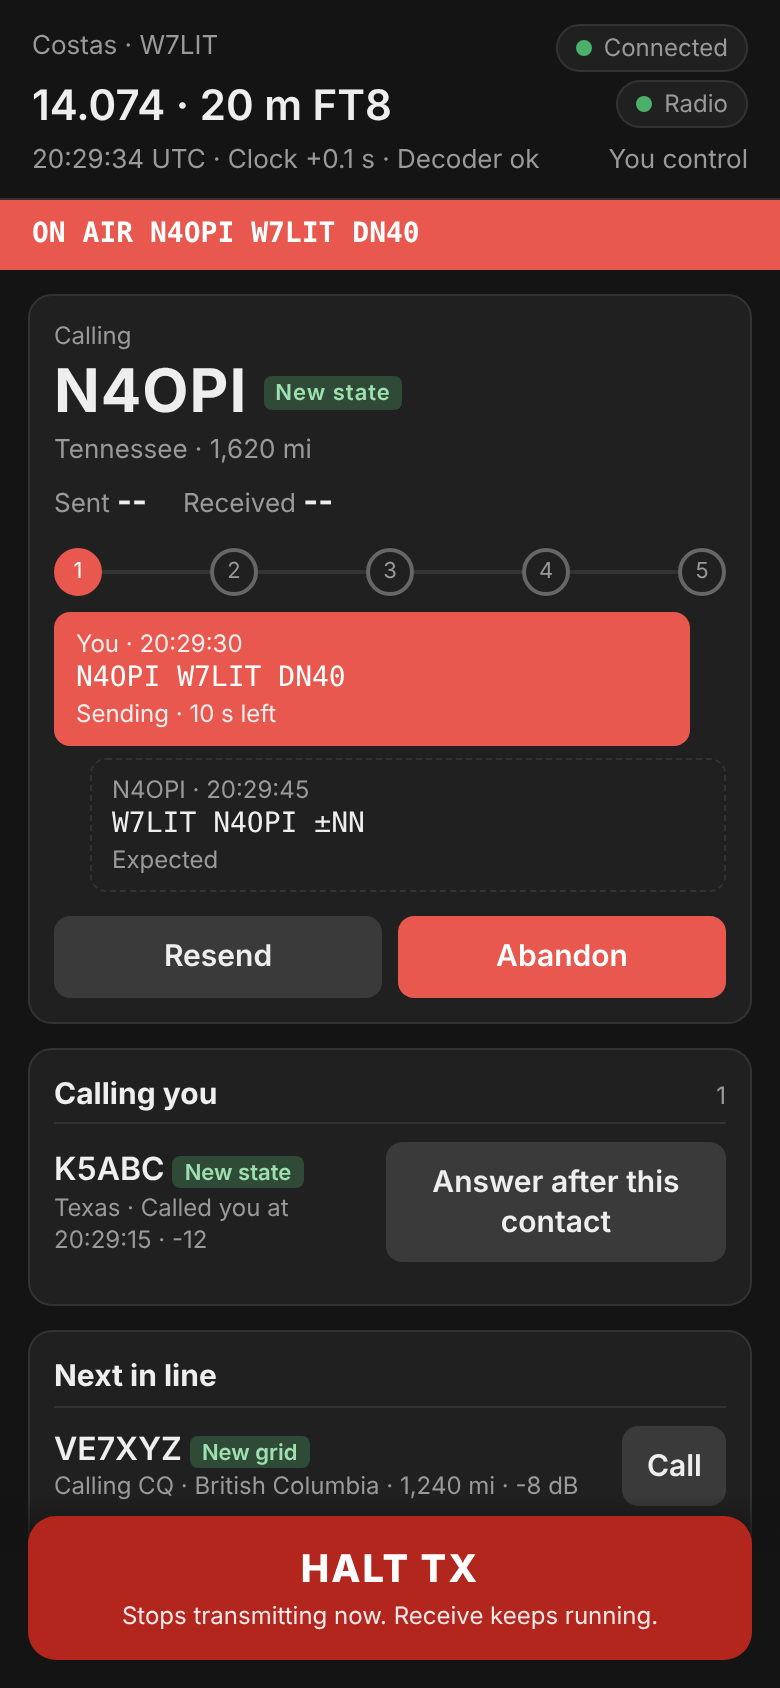
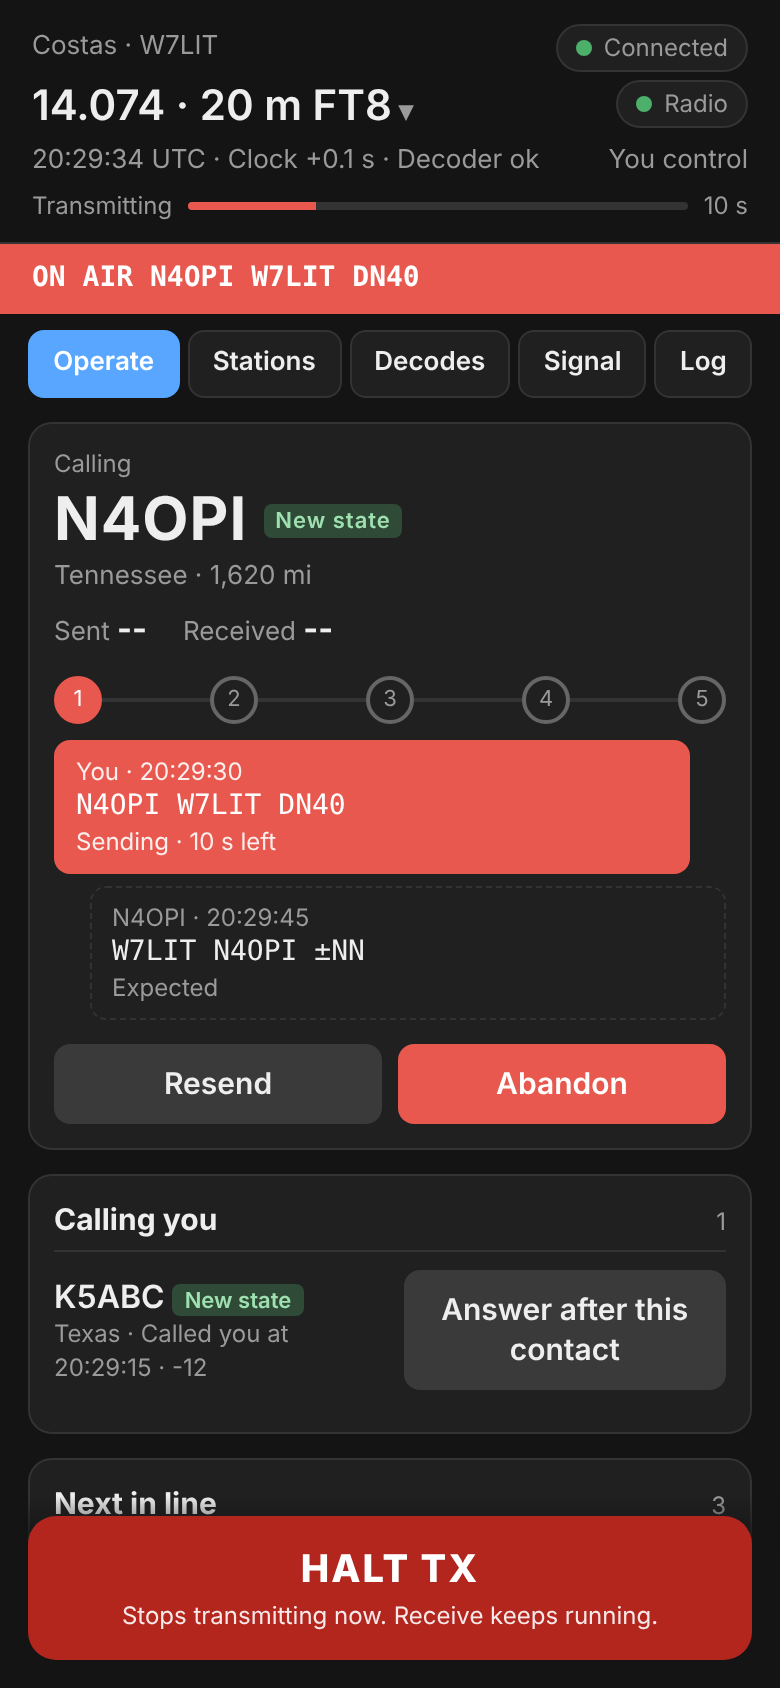
Document the fuller phone page
The manual's phone page lists what each tab shows, how station details and
band changes work, and which actions take control. The UI spec and
architecture notes describe the new state and commands.

Claude-Session: https://claude.ai/code/session_01Xyf7gwF8RdtxK5kX49V5Lw

diff --git a/manual/phone.md b/manual/phone.md
@@ -24,14 +24,42 @@ phone, open **Settings › Mobile connection** again and press **Pair a phone**.
 
 ## What the phone can do
 
-- See the band and frequency, the radio, the clock and the decoder, and what is on the air.
-- Follow the contact on the same five-step strip as the desk. Tap one of your upcoming steps to send it next.
-- **Resend**, **Log now** (once both reports are exchanged) and **Abandon**.
-- **Call CQ** or **Stop CQ**.
-- Answer stations in **Calling you**, and call stations in **Next in line**.
-- **HALT TX** is always at the bottom of the screen.
+The top of the page shows the band and frequency, the radio, the clock and the decoder, who is in control, and a
+countdown bar for the current slot (red while you transmit). Below it, five tabs cover what the desk's Operate view
+shows. **HALT TX** is always at the bottom of the screen.
 
-Settings, the log, band changes and the waterfall stay on the desk.
+![The Stations tab](images/phone-stations.png){ width="320" }
+
+| Tab | What it shows |
+|---|---|
+| **Operate** | The contact on the same five-step strip as the desk (tap one of your upcoming steps to send it next), with **Resend**, **Log now** and **Abandon**; **Call CQ** or **Stop CQ**; **Calling you**; and **Next in line** with the same columns as the desk: what each station is doing, where it is, its signal, whether it hears you, your chance, and when you last worked it |
+| **Stations** | The band summary (stations heard, countries, calling CQ, you need), **Repeats** (stations already in your log on this band and mode) and **Watching** (needed, but not callable right now, and why) |
+| **Decodes** | Band activity, newest first. Messages to you are highlighted, CQs are blue and your own transmissions are grey |
+| **Signal** | Who hears you, from PSK Reporter: how many stations and countries in the last 15 minutes, the farthest and best reports, and the latest reports |
+| **Log** | The contacts you made tonight |
+
+Under the top bar the page also shows the radio's SWR or ALC warning after a transmission that read outside limits,
+and a line when QRZ, PSK Reporter or the audio device is not working.
+
+### Station details
+
+Tap a call anywhere (a row in a list, a line in Decodes, a report) to open what the desk's details flyout shows:
+name and location from QRZ, grid, bearing, local time, QSL methods, zones, what it is doing now, a pile-up summary
+and your past contacts with it. When the station can be called, the sheet has a **Call** (or **Answer**) button.
+
+![Station details on the phone](images/phone-details.png){ width="320" }
+
+### Band, mode and Tx offset
+
+Tap the frequency at the top to change band or mode, or the transmit offset. These work like the band menu and the
+offset box on the desk: band changes wait until the current transmission ends, changing band ends a contact or CQ
+(the phone asks first), and a fixed offset must be between 200 and 2900 Hz. Changes are saved, so the desk shows
+them too.
+
+![Band and offset on the phone](images/phone-band.png){ width="320" }
+
+Settings, editing the log and the waterfall stay on the desk. Opening a station's details or switching tabs does not
+take control; calling, answering, band and offset changes do.
 
 ## Who is in control
 

diff --git a/docs/02-ui-spec.md b/docs/02-ui-spec.md
@@ -238,6 +238,8 @@ Sections: Station profiles · Radio · Audio · Transmit (power, watchdog minute
 
 A single page served by the app to a paired phone on the home network (owner decision 2026-10-12). Top: my call, frequency, band and mode, link state, radio dot, UTC, clock and decoder, and who has control ("You control", "Desk controls", "Another phone controls"). An ON AIR line with the message while transmitting. A yellow banner for the fault line (for example "Transmit stopped at 20:31:15: lost touch with the phone."). The contact card with the same wording and five-step strip as the desk, the messages around the current step (tap an upcoming one of mine to jump), and Resend, Log now and Abandon; when idle, Call CQ or Stop CQ. Calling you and Next in line (up to 8) with their buttons. HALT TX pinned to the bottom ("NOT TRANSMITTING" in grey when nothing is going out). The desk's bottom bar shows "Phone in control" or "Phone connected".
 
+Richer page (owner request 2026-10-12, "more feature rich"): under the top bar, a slot countdown bar (red while transmitting), the Tx meter warning after a transmission outside limits, and one line when QRZ, PSK Reporter or audio is not working. Five tabs: Operate (contact card, Calling you, Next in line with the desk's columns: doing now, where, signal, hears you, chance, last heard, last worked), Stations (band summary figures, Repeats up to 8, Watching up to 8 with the reason), Decodes (band activity, newest first, up to 60 lines, coloured as on the desk), Signal (the desk's "Your signal" panel: headline, farthest, best, nearby stations, latest reports), Log (tonight's contacts). Tapping a call opens a station sheet with the desk's details flyout content and a Call or Answer button when the station can be called. Tapping the frequency opens a band sheet: mode, band (not while transmitting; confirms before ending a contact or CQ) and Tx offset (Automatic, or 200 to 2900 Hz), with the desk's wording and saved to settings. Opening details does not take control; band and offset changes do. The tab in use is remembered on the phone.
+
 
 Audio dropouts, decode time per slot, median DT of decodes, clock offset, CAT round-trip time, ALC and SWR of the last transmission, `jt9` and `rigctld` process state and restarts, QRZ and PSK Reporter connection state and last error, upload queue length. A button "Save diagnostics bundle" writes a zip of logs and settings (with secrets removed).
 

diff --git a/docs/03-architecture.md b/docs/03-architecture.md
@@ -120,6 +120,8 @@ Required from Milestone 0 so that everything can be built and tested without a r
 
 `App/Remote`: `RemoteControlService` runs Kestrel (ASP.NET Core) inside the app while Settings has it on. `GET /` serves one embedded HTML page, `POST /api/pair` swaps the one-time code for a device token, and `/ws` carries `RemoteState` (built from `SessionSnapshot` by `RemoteStateBuilder`, reusing the Operate view models' wording) down and commands up. `RemoteControl` holds the rules (pairing, sign-in, `ControlLease`, commands mapped onto `IRemoteTarget`, which `Session` implements) and is tested without the network. Requests from outside private, link-local and CGNAT ranges get 403; WebSockets from another origin are refused. Token hashes go in the OS credential store. The lease check runs every 250 ms on its own task and calls `Session.HaltAsync(reason)` when the controlling phone is silent for 15 s.
 
+The page's extra data (log, QRZ lookups, country file, most-wanted list, bands) reaches `RemoteStateBuilder` through `RemoteContext`, which `AppHost` fills in. Band and Tx offset changes go through `IRemoteTuning` (`HostTuning` calls `AppHost.SetBandAsync` and `Session.SetTxOffset` and saves settings, as the desk does). Each phone's open station sheet is a view-only `show` command kept per device in `RemoteControl`; it does not take the control lease.
+
 ## Configuration and storage
 
 Per-user data lives in `%LOCALAPPDATA%\Costas\` (on other platforms, the equivalent app-data folder): `costas.db`, `settings.json`, `logs\`, `wav\`, `cache\`. See `06-data-model.md`.
